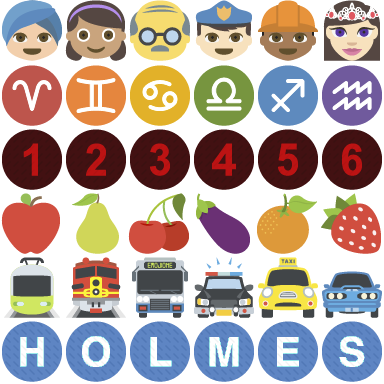
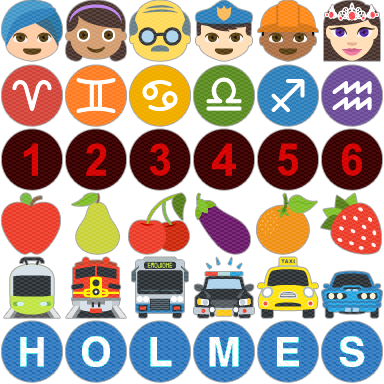
svistoperdelki

diff --git a/Sherlock/lib/components/game_field_component/board_cell_component/board_cell_component.dart b/Sherlock/lib/components/game_field_component/board_cell_component/board_cell_component.dart
@@ -1,11 +1,16 @@
+import 'dart:math';
 import 'package:angular2/angular2.dart';
+import 'package:sherlock/components/game_field_component/board_cell_component/resolved_board_cell_component/resolved_board_cell_component.dart';
 
 @Component(
     selector: 'board-cell',
     styleUrls: const ['board_cell_component.css'],
     templateUrl: 'board_cell_component.html',
-    directives: const []
+    directives: const [ResolvedBoardCellComponent]
 )
 class BoardCellComponent {
-
+  String getResolvedClass() {
+    Random rand = new Random();
+    return "s${rand.nextInt(6)}${rand.nextInt(6)}";
+  }
 }

diff --git a/Sherlock/lib/components/game_field_component/game_field_component.less b/Sherlock/lib/components/game_field_component/game_field_component.less
@@ -1,0 +1,12 @@
+:host {
+  display: block;
+  width: 1200px;
+  height: 700px;
+  padding: 36px;
+  border-radius: 0 48px 0 48px;
+  border: 1px solid #aaa;
+  -webkit-box-shadow: 0px 0px 40px -2px rgba(0, 0, 0, 0.34);
+  -moz-box-shadow: 0px 0px 40px -2px rgba(0, 0, 0, 0.34);
+  box-shadow: 0px 0px 40px -2px rgba(0, 0, 0, 0.34);
+  background: url('img/bg.png') repeat;
+}

diff --git a/Sherlock/web/main.dart b/Sherlock/web/main.dart
@@ -9,7 +9,7 @@ import 'package:sherlock/model/game_field.dart';
 import 'package:sherlock/services/game_service.dart';
 
 Future main() async {
-  await new Future.delayed(new Duration(seconds: 1));
+  await new Future.delayed(new Duration(seconds: 3));
   bootstrap(AppComponent);
 //  generateBoard();
 }

diff --git a/Sherlock/lib/components/game_field_component/board_cell_component/resolved_board_cell_component/resolved_board_cell_component.dart b/Sherlock/lib/components/game_field_component/board_cell_component/resolved_board_cell_component/resolved_board_cell_component.dart
@@ -1,0 +1,11 @@
+import 'package:angular2/angular2.dart';
+
+@Component(
+    selector: 'resolved-board-cell',
+    styleUrls: const ['resolved_board_cell_component.css'],
+    templateUrl: 'resolved_board_cell_component.html',
+    directives: const []
+)
+class ResolvedBoardCellComponent {
+
+}

diff --git a/Sherlock/web/index.html b/Sherlock/web/index.html
@@ -22,7 +22,7 @@
   </head>
   <body>
   <my-app>
-    <img src="img/title.png" class="logo">
+    <img src="img/title2.png" class="logo">
     <div class="progress-container">
       <div class="progress">
         <div class="progress-bar">

diff --git a/Sherlock/lib/components/game_field_component/board_cell_component/board_cell_component.less b/Sherlock/lib/components/game_field_component/board_cell_component/board_cell_component.less
@@ -1,7 +1,7 @@
 :host {
   width: 96px;
   padding: 4px;
-  background: black;
+  background: url("img/stripe.png") repeat;
   border: 1px solid #666;
   border-collapse: separate;
   display: table-cell;

diff --git a/Sherlock/web/styles.css b/Sherlock/web/styles.css
@@ -80,8 +80,10 @@ body {
   height: 0.25em;
   position: relative;
   width: 26em;
-  left: 97px;
+  left: -75px;
+  top: -120px;
 }
+
 .progress-bar {
   background-size: 26em 0.25em;
   height: 100%;

diff --git a/Sherlock/lib/components/game_field_component/board_component/board_component.html b/Sherlock/lib/components/game_field_component/board_component/board_component.html
@@ -1,5 +1,4 @@
 <div *ngFor="let line of field.lines" class="board-line">
     <board-cell *ngFor="let cell of line.cells">
-        Cell
     </board-cell>
 </div>

diff --git a/Sherlock/lib/components/game_field_component/board_cell_component/board_cell_component.html b/Sherlock/lib/components/game_field_component/board_cell_component/board_cell_component.html
@@ -1,1 +1,3 @@
-<div class="sprite large s43"></div>
+<resolved-board-cell class="sprite large" [ngClass]="getResolvedClass()">
+
+</resolved-board-cell>

diff --git a/Sherlock/lib/components/game_field_component/board_cell_component/resolved_board_cell_component/resolved_board_cell_component.less b/Sherlock/lib/components/game_field_component/board_cell_component/resolved_board_cell_component/resolved_board_cell_component.less
@@ -1,0 +1,7 @@
+:host {
+  width: 64px;
+  height: 64px;
+  display: block;
+  position: relative;
+  left: 16px;
+}
